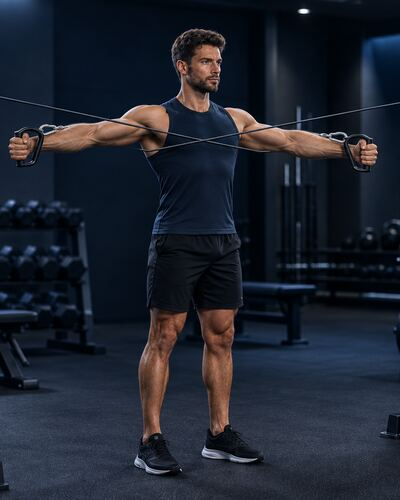
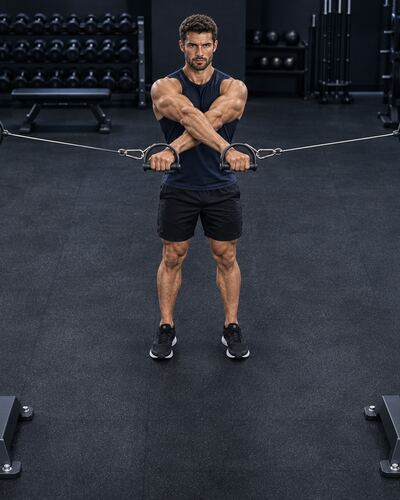
Neue Fotos für Rudermaschine breit und Reverse Butterfly
Rudern breit mit der Stange quer zum Körper, die Reverse Butterfly
Maschine direkt vor dem Sitz, am Kabel beide Türme gleich weit vor der
Person, damit der Zug nach hinten aussen geht.

Claude-Session: https://claude.ai/code/session_01MPv65TyRWfLE6TBM7iE6xk

diff --git a/apps/pwa/sw.js b/apps/pwa/sw.js
@@ -6,7 +6,7 @@
  * ist der einzige Weg, den Nutzer zu erreichen, waehrend die App geschlossen
  * ist. Siehe workers/push.
  */
-const CACHE = "daevo-v146";
+const CACHE = "daevo-v147";
 const ASSETS = [
   "./",
   "./index.html",

diff --git a/CLAUDE.md b/CLAUDE.md
@@ -335,7 +335,7 @@ Strichfiguren, keine Clip Art, keine Karten mit Rahmen um Text.
 - Vor jedem Bildauftrag ein echtes Foto der Übung oder des Geräts ansehen,
   etwa die Produktfotos des Herstellers, und den Aufbau daraus Teil für Teil
   in den Auftrag schreiben. So saßen High Row, Rudermaschine eng und Klimmzug
-  eng beim ersten Versuch. Was dabei gelernt ist: bei der High Row steht das
+  eng beim ersten Versuch, die übrigen drei beim zweiten. Was dabei gelernt ist: bei der High Row steht das
   hohe Gestell hinter dem Rücken, der Hebel dreht sich oben hinter dem Kopf,
   die Scheiben hängen hinten. Beim Rudern dreht sich der Hebel unten am
   Rahmen, und das Brustpolster sitzt auf einem eigenen Pfosten. Eine breite
